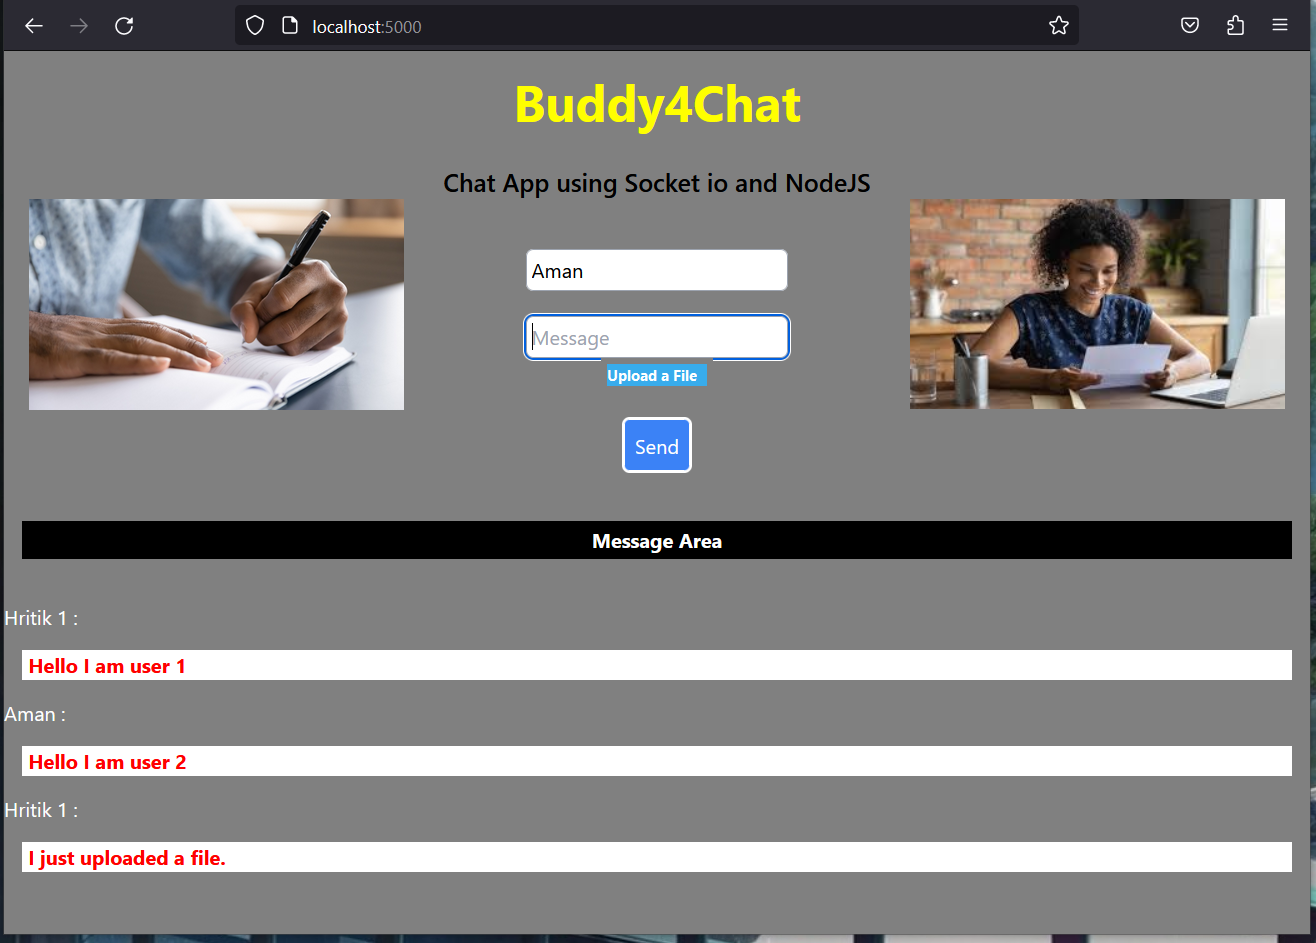
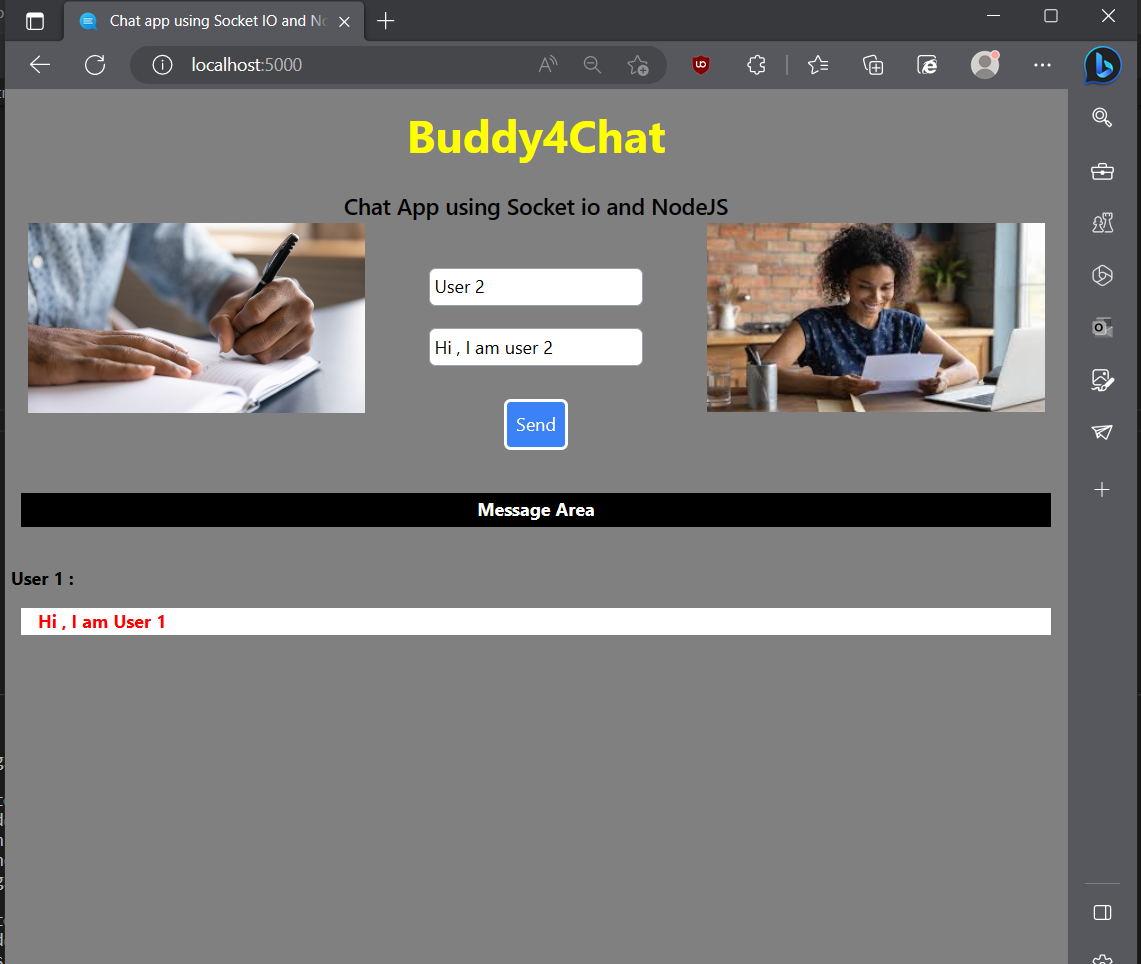
C-1Node JS Socket.io

diff --git a/index.html b/index.html
@@ -3,6 +3,8 @@
 
 <head>
 	<title>Chat app using Socket IO and Node JS</title>
+	<link rel="icon" type="image/x-icon" href="https://img.icons8.com/?size=512&id=D6fq9I7xyv5X&format=png">
+
 	<script src="https://cdn.tailwindcss.com"></script>
 </head>
 
@@ -36,7 +38,7 @@
 			type="text"
 			placeholder="Message"
 			id="message">
-            <div style="width: 90px; background-color:#38ACEC ; color: white; border:  5px gray solid;font-size: 12px;font-weight: bold;"><a href="https://drive-clone-2884e.web.app/" target="_blank">Upload a File</a></div>
+            <div style="width: 90px; background-color:#38ACEC ; color: white; border:  5px gray solid;font-size: 12px;font-weight: bold;"></div>
             <button class="bg-blue-500 rounded-md p-2
 					text-white mt-5" style="border:3px white solid;">
 			Send
@@ -61,7 +63,7 @@
 	form.addEventListener("submit", (e) => {
 		e.preventDefault();
         if(!myname.value.match("^[a-zA-Z 1-9@]*$"))
-        {alert("Please Enter a Valid Name");
+        {alert("Please Enter a Valid Name . Name can be of alphanumeric digits , @ and space only.");
     return;}
 
 		if (message.value) {
@@ -69,14 +71,19 @@
 			socket.emit('send message', message.value);
 			message.value = "";
 		}
+		else {
+			alert("Message is Empty")
+		}
 	});
 
 	socket.on("send name", (username) => {
-		let name = document.createElement("p");
+		let name = document.createElement("div");
 		name.style.backgroundColor = "grey";
+		name.style.marginLeft="5px";
 		name.style.width = "100%";
 		name.style.textAlign = "left";
-		name.style.color = "white";
+		name.style.color = "black";
+		name.style.fontWeight="bold"
 		name.textContent = "  "+username + " :";
 		messageArea.appendChild(name);
 	});
@@ -84,7 +91,7 @@
 	socket.on("send message", (chat) => {
 		let chatContent = document.createElement("div");
 		chatContent.textContent = chat;
-        chatContent.style.cssText="color:red;font-weight : bold;background-color:white ;padding-left:5px ;width:auto;border:15px gray solid";
+        chatContent.style.cssText="color:red;font-weight : bold;background-color:white ;padding-left:15px ;width:auto;border:15px gray solid";
 		messageArea.appendChild(chatContent);
 	});
 </script>
